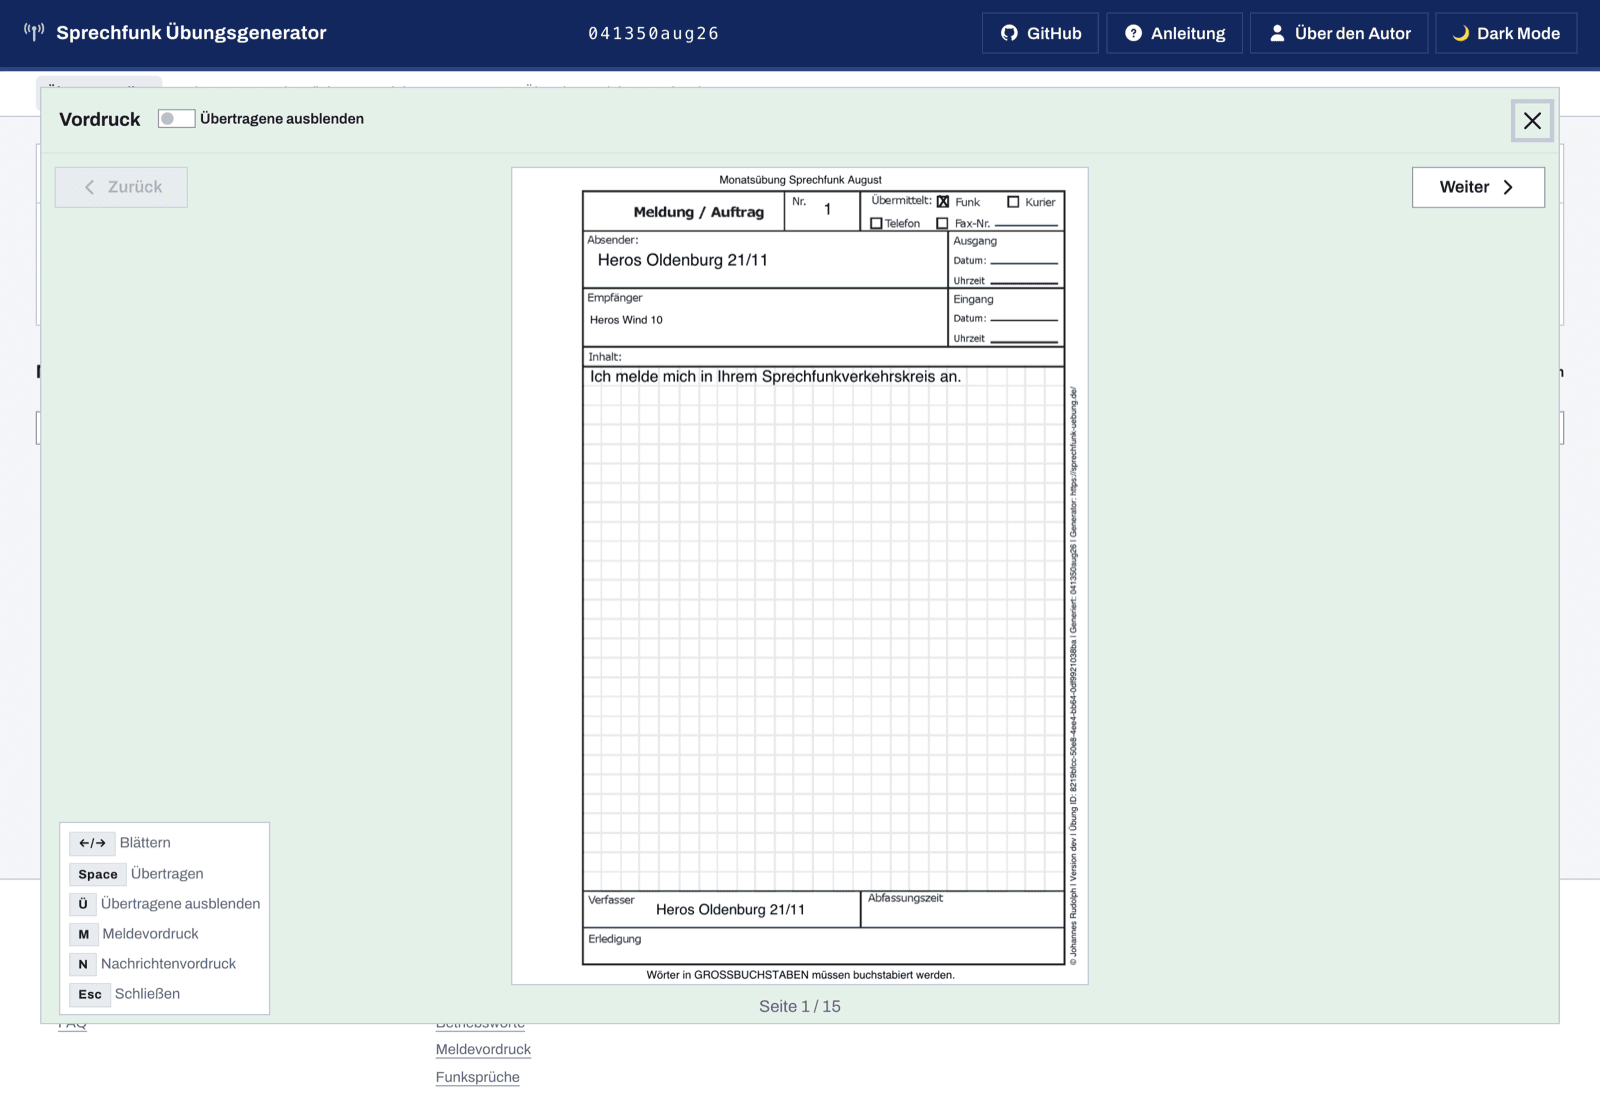
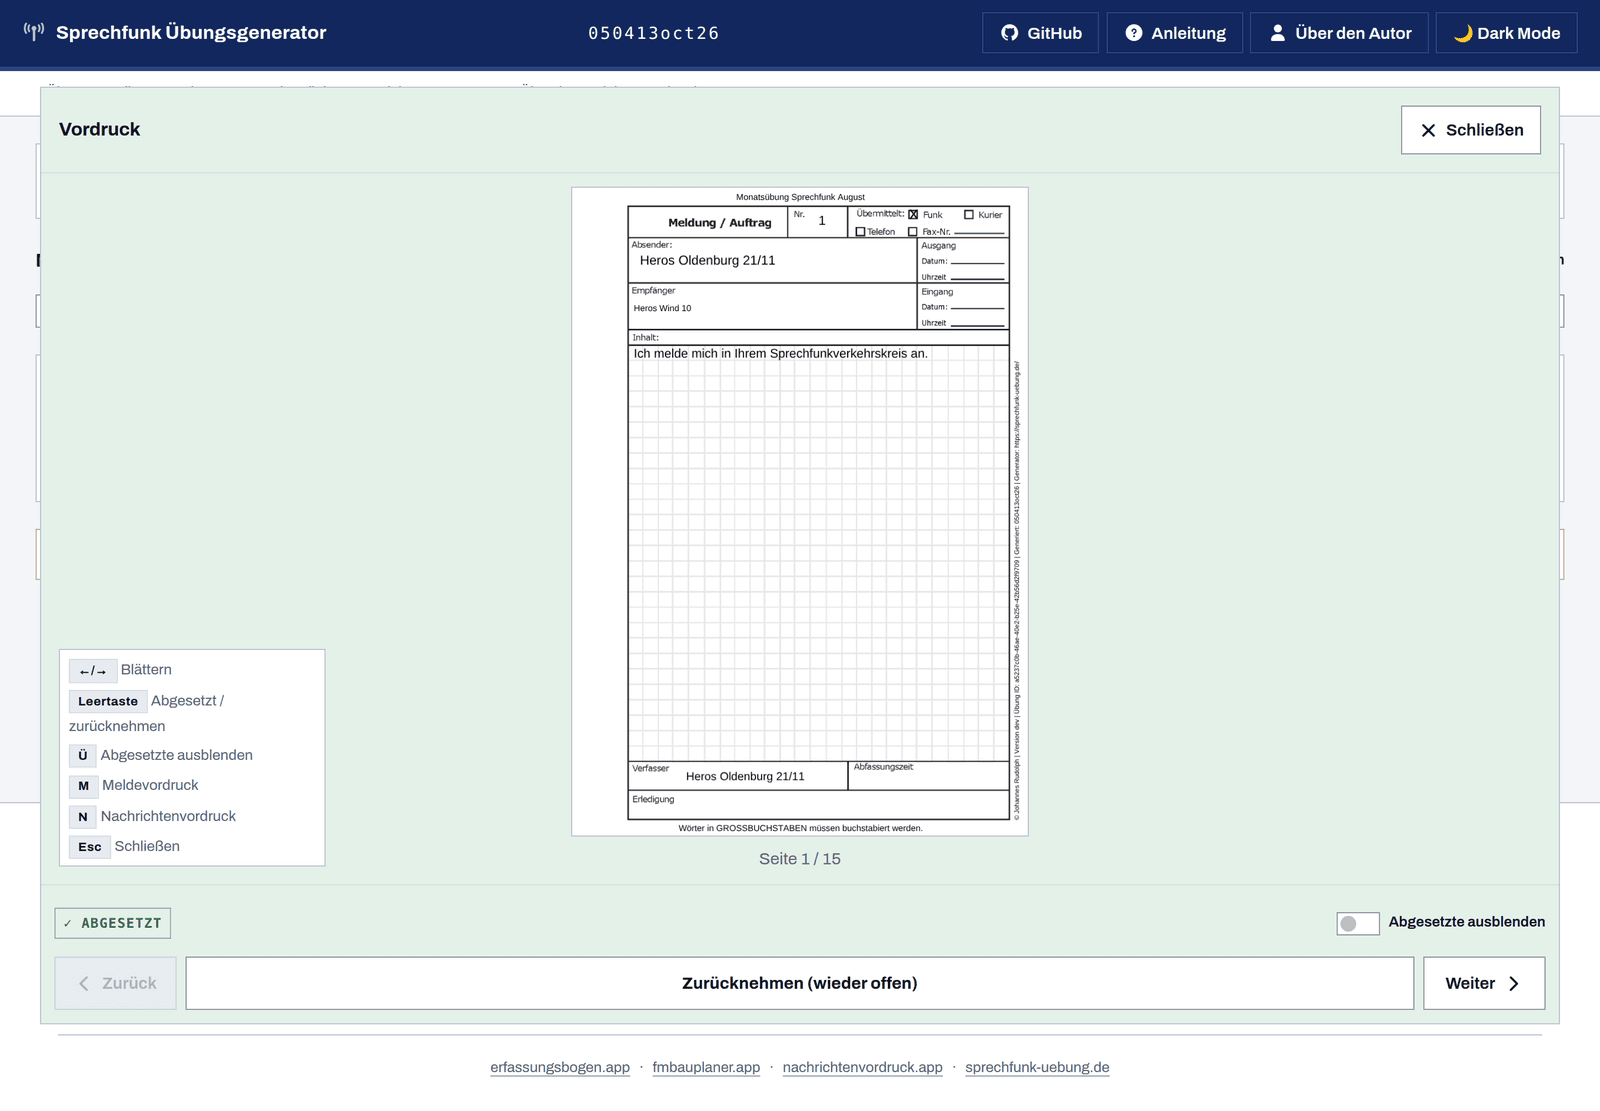
docs(anleitung): Wortwahl „abgesetzt“ und neue Screenshots
Anleitung, FAQ und Inhaltsseiten an die vereinheitlichte Wortwahl der
Teilnehmer- und Leitungsansicht angepasst („abgesetzt“ statt
„übertragen“, Knopf statt Schalter, Pfeiltasten zum Blättern).
Screenshots neu erzeugt. Das Skript nimmt außerhalb von macOS
ImageMagick statt sips, überspringt „Anmeldung erhalten“, wenn der
Teilnehmer seinen Anmeldespruch schon abgehakt hat, wartet den
Rückgängig-Hinweis ab und begrenzt die Teilnehmeraufnahme auf die
ersten Zeilen (200-KB-Grenze).

Claude-Session: https://claude.ai/code/session_01J5R7RwmWcCMk3gkqRpAjCu

diff --git a/src/pages/anleitung.html b/src/pages/anleitung.html
@@ -131,7 +131,7 @@
                     <img src="../assets/anleitung/generator-uebersicht.png"
                          class="figure-img img-fluid rounded border"
                          alt="Generator-Ansicht mit den drei Karten Kopfdaten, Einstellungen und Teilnehmerverwaltung"
-                         width="1600" height="1084" loading="lazy" decoding="async">
+                         width="1600" height="1907" loading="lazy" decoding="async">
                     <figcaption class="figure-caption">Der Generator mit einer ausgefüllten Beispielübung:
                         Kopfdaten, Einstellungen und Teilnehmerverwaltung nebeneinander.</figcaption>
                 </figure>
@@ -148,7 +148,7 @@
                     <img src="../assets/anleitung/generator-kopfdaten.png"
                          class="figure-img img-fluid rounded border" style="max-width: 460px;"
                          alt="Kopfdaten-Karte mit Feldern für Datum, Name der Übung, Rufgruppe und Funkrufname der Übungsleitung"
-                         width="912" height="1052" loading="lazy" decoding="async">
+                         width="1384" height="1138" loading="lazy" decoding="async">
                     <figcaption class="figure-caption">Die Kopfdaten der Übung. Der Spiel-Modus
                         <a href="../x-zeit/">der X-Zeit-Modus</a> verteilt Nachrichten zusätzlich auf feste Zeitfenster.</figcaption>
                 </figure>
@@ -164,7 +164,7 @@
                     <img src="../assets/anleitung/generator-teilnehmer.png"
                          class="figure-img img-fluid rounded border" style="max-width: 460px;"
                          alt="Teilnehmerverwaltung mit Funkrufnamen, individuellen Lösungswörtern und Löschen-Buttons"
-                         width="912" height="928" loading="lazy" decoding="async">
+                         width="1600" height="570" loading="lazy" decoding="async">
                     <figcaption class="figure-caption">Vier Teilnehmer mit Funkrufnamen. Die Spalte
                         „Lösungswort“ erscheint, sobald individuelle Lösungswörter aktiviert sind.</figcaption>
                 </figure>
@@ -212,7 +212,7 @@
                     <img src="../assets/anleitung/generator-einstellungen.png"
                          class="figure-img img-fluid rounded border" style="max-width: 460px;"
                          alt="Einstellungen-Karte mit Nachrichtenverteilung, Vorlagen-Auswahl und Lösungswort-Optionen"
-                         width="912" height="1840" loading="lazy" decoding="async">
+                         width="1384" height="2220" loading="lazy" decoding="async">
                     <figcaption class="figure-caption">Die Einstellungen-Karte bündelt die Schritte 3
                         bis 5: Nachrichtenverteilung, Quelle der Funksprüche und Lösungswörter.</figcaption>
                 </figure>
@@ -231,7 +231,7 @@
                     <img src="../assets/anleitung/generator-links.png"
                          class="figure-img img-fluid rounded border"
                          alt="Ergebnisbereich mit Links für Übung, Übungsleitung und Teilnehmer sowie ZIP-Download"
-                         width="1600" height="848" loading="lazy" decoding="async">
+                         width="1600" height="1154" loading="lazy" decoding="async">
                     <figcaption class="figure-caption">Der Ergebnisbereich: pro Teilnehmer ein Link mit
                         Teilnehmercode, darunter der ZIP-Download aller Druckdaten.</figcaption>
                 </figure>
@@ -245,7 +245,7 @@
                     <img src="../assets/anleitung/generator-statistik.png"
                          class="figure-img img-fluid rounded border"
                          alt="Statistik-Tab mit Nachrichtenverteilung als Diagramm und geschätzter Übungsdauer"
-                         width="1600" height="848" loading="lazy" decoding="async">
+                         width="1600" height="849" loading="lazy" decoding="async">
                     <figcaption class="figure-caption">Nachrichtenverteilung und geschätzte Dauer:
                         Bei 4 Teilnehmern mit je 15 Funksprüchen etwa 3 Stunden.</figcaption>
                 </figure>
@@ -308,7 +308,7 @@
                     „Übungsleitung“). Die Ansicht zeigt oben die Übungsdaten mit
                     <strong>Übungscode</strong> und Übungs-ID, darunter die Teilnehmertabelle
                     und den Nachrichtenplan. Alles synchronisiert sich <strong>live</strong>:
-                    Sobald ein Teilnehmer eine Nachricht als übertragen markiert, erscheint das
+                    Sobald ein Teilnehmer eine Nachricht als abgesetzt markiert, erscheint das
                     hier, ohne dass jemand die Seite neu laden muss.
                 </p>
                 <figure class="figure my-3 w-100">
@@ -317,13 +317,13 @@
                          alt="Übungsleitungs-Ansicht mit Übungsdaten, Übungscode und Teilnehmertabelle mit Fortschritt"
                          width="1600" height="1111" loading="lazy" decoding="async">
                     <figcaption class="figure-caption">Die Übungsüberwachung: Der erste Teilnehmer hat
-                        sich angemeldet und 2 von 15 Nachrichten übertragen.</figcaption>
+                        sich angemeldet und 2 von 15 Nachrichten abgesetzt.</figcaption>
                 </figure>
 
                 <h3 class="h5">Teilnehmer-Tracking</h3>
                 <p>Die Teilnehmertabelle zeigt je Teilnehmer:</p>
                 <ul>
-                    <li><strong>Fortschritt</strong> – Fortschrittsbalken mit „übertragen / gesamt“
+                    <li><strong>Fortschritt</strong> – Fortschrittsbalken mit „abgesetzt / gesamt“
                         und dem Zeitpunkt der letzten Meldung,</li>
                     <li><strong>Angemeldet</strong> – per Klick auf „Anmelden“ dokumentierst du
                         die Anmeldung im Sprechfunkverkehrskreis,</li>
@@ -372,21 +372,22 @@
                 <h3 class="h5">Tabellenansicht</h3>
                 <ul>
                     <li>Zeigt alle eigenen Nachrichten mit Empfänger und Text.</li>
-                    <li>Status „offen/übertragen“ wird per Schalter markiert – der Fortschritt
-                        erscheint live bei der Übungsleitung.</li>
+                    <li>Mit „Als abgesetzt markieren“ hakst du eine Nachricht ab, „Zurücknehmen“ macht
+                        sie wieder offen – der Fortschritt erscheint live bei der Übungsleitung.
+                        Auf dem Handy steht jede Nachricht als Karte mit großem Knopf untereinander.</li>
                     <li>Bestätigt die Übungsleitung eine Nachricht, erscheint das in der Spalte
                         „Leitung“.</li>
                     <li>Suche nach Nachricht, Empfänger oder Nummer möglich.</li>
-                    <li>Übertragene Nachrichten können ausgeblendet werden.</li>
+                    <li>Abgesetzte Nachrichten können ausgeblendet werden.</li>
                     <li>„ZIP herunterladen“ liefert die eigenen Druckunterlagen.</li>
                 </ul>
                 <figure class="figure my-3 w-100">
                     <img src="../assets/anleitung/teilnehmer-uebersicht.png"
                          class="figure-img img-fluid rounded border"
                          alt="Teilnehmeransicht mit Funkspruch-Tabelle und Status je Nachricht"
-                         width="1600" height="1424" loading="lazy" decoding="async">
+                         width="1600" height="911" loading="lazy" decoding="async">
                     <figcaption class="figure-caption">Die Teilnehmeransicht: Die ersten beiden
-                        Nachrichten sind als übertragen markiert, „Sync: live“ zeigt die
+                        Nachrichten sind als abgesetzt markiert, „Sync: live“ zeigt die
                         aktive Verbindung zur Übungsleitung.</figcaption>
                 </figure>
 
@@ -394,7 +395,7 @@
                 <ul>
                     <li>Umschalten auf <strong>Meldevordruck</strong> oder <strong>Nachrichtenvordruck</strong>.</li>
                     <li>Es ist immer nur eine Seite sichtbar; mit links/rechts wird geblättert.</li>
-                    <li>Die Nachricht kann direkt als „übertragen“ markiert werden.</li>
+                    <li>Die Nachricht kann direkt mit dem Knopf „Als abgesetzt markieren“ abgehakt werden, auch per Touch.</li>
                 </ul>
                 <figure class="figure my-3 w-100">
                     <img src="../assets/anleitung/teilnehmer-vordruck.png"
@@ -409,10 +410,10 @@
                 <ul>
                     <li><kbd>Esc</kbd> – schließen</li>
                     <li><kbd>←</kbd> / <kbd>→</kbd> – blättern</li>
-                    <li><kbd>Leertaste</kbd> – aktuelle Nachricht als übertragen markieren</li>
+                    <li><kbd>Leertaste</kbd> – aktuelle Nachricht als abgesetzt markieren</li>
                     <li><kbd>M</kbd> – Meldevordruck</li>
                     <li><kbd>N</kbd> – Nachrichtenvordruck</li>
-                    <li><kbd>Ü</kbd> – übertragene Nachrichten ein-/ausblenden</li>
+                    <li><kbd>Ü</kbd> – abgesetzte Nachrichten ein-/ausblenden</li>
                 </ul>
             </div>
         </div>

diff --git a/src/pages/digitale-funkuebung.html b/src/pages/digitale-funkuebung.html
@@ -183,7 +183,7 @@
                     <section class="card shadow-sm mb-4">
             <div class="card-header"><h2 class="h4 mb-0" id="teilnehmeransicht">Was die Teilnehmeransicht zeigt</h2></div>
             <div class="card-body">
-                <p>Der Link führt auf eine Liste der eigenen Funksprüche, mit laufender Nummer, Empfänger und Text. Jede Zeile lässt sich als übertragen markieren. Wer die Vordruckansicht wählt, sieht stattdessen den Nachrichtenvordruck am Bildschirm und blättert mit der Leertaste.</p>
+                <p>Der Link führt auf eine Liste der eigenen Funksprüche, mit laufender Nummer, Empfänger und Text. Jede Nachricht lässt sich als abgesetzt markieren, am Handy über einen großen Knopf je Karte. Wer die Vordruckansicht wählt, sieht stattdessen den Nachrichtenvordruck am Bildschirm, blättert mit den Pfeiltasten und hakt mit Knopf oder Leertaste ab.</p>
                 <p>Ein Konto ist nicht nötig, weil der Link selbst die Zuordnung enthält. Das ist bewusst so: Ein Anmeldeverfahren würde am Übungsabend fünf Minuten kosten und einige Teilnehmer aussteigen lassen.</p>
                 <p>Aufgenommene Nachrichten werden weiter auf Papier notiert. Der Vordruck bleibt Teil der Übung, weil das Mitschreiben geübt werden soll.</p>
             </div>

diff --git a/src/pages/funktionen.html b/src/pages/funktionen.html
@@ -242,7 +242,7 @@
             <div class="card-header"><h2 class="h4 mb-0" id="grenzen">Was der Generator nicht macht</h2></div>
             <div class="card-body">
                 <p>Die Anwendung erzeugt Übungsunterlagen und begleitet den Verlauf. Sie ersetzt weder Funkgeräte noch die Übungsleitung. Wer die Rufgruppe zuweist, wer einweist und wer eine Nachbesprechung führt, bleibt eine Aufgabe für Menschen.</p>
-                <p>Auch die fachliche Bewertung bleibt außen vor. Ob ein Teilnehmer den Anruf korrekt gesprochen hat, hört nur die Übungsleitung; die Anwendung sieht lediglich, dass eine Nachricht als übertragen markiert wurde.</p>
+                <p>Auch die fachliche Bewertung bleibt außen vor. Ob ein Teilnehmer den Anruf korrekt gesprochen hat, hört nur die Übungsleitung; die Anwendung sieht lediglich, dass eine Nachricht als abgesetzt markiert wurde.</p>
                 <p>Bewusst fehlt außerdem eine Aufzeichnung des Funkverkehrs. Mitschnitte wären ausbildungsfachlich reizvoll und datenschutzrechtlich heikel, deshalb gibt es sie nicht.</p>
             </div>
         </section>

diff --git a/src/uebungsleitung/UebungsleitungTeilnehmerView.ts b/src/uebungsleitung/UebungsleitungTeilnehmerView.ts
@@ -393,7 +393,7 @@ export class UebungsleitungTeilnehmerView {
         const geraet = this.renderGeraetHinweis(fortschritt, jetztMs);
         const letzte = letzteMeldungUm
             ? `<small class="text-body-secondary">zuletzt ${formatNatoDate(letzteMeldungUm)}</small>${herkunft}${geraet}`
-            : `<small class="text-body-secondary">noch nichts übertragen</small>${geraet}`;
+            : `<small class="text-body-secondary">noch nichts abgesetzt</small>${geraet}`;
         // Der Balken startet auf dem zuletzt gezeigten Wert und bekommt den
         // neuen erst im nächsten Frame; so legt er die Strecke sichtbar zurück.
         const start = this.letzterProzent.get(name) ?? percent;

diff --git a/src/pages/faq.html b/src/pages/faq.html
@@ -242,8 +242,8 @@
             <div class="card-body">
                 <h3 class="h5">Warum steht bei meinen Nachrichten überall „offen“?</h3>
                 <p>
-                    Nachrichten müssen aktiv als „übertragen“ markiert werden – per Klick in der
-                    Tabelle oder mit der Leertaste in der Vordruckansicht.
+                    Nachrichten müssen aktiv als abgesetzt markiert werden – mit dem Knopf „Als abgesetzt
+                    markieren“ in der Liste oder in der Vordruckansicht, dort auch mit der Leertaste.
                 </p>
 
                 <h3 class="h5">Die Teilnehmeransicht zeigt eine Fehlermeldung. Was tun?</h3>

diff --git a/tests/uebungsleitung/UebungsleitungView.test.ts b/tests/uebungsleitung/UebungsleitungView.test.ts
@@ -607,7 +607,7 @@ describe("UebungsleitungView – Live-Status", () => {
             });
 
             expect(document.getElementById("uebungsleitungTeilnehmer")?.textContent)
-                .toContain("noch nichts übertragen");
+                .toContain("noch nichts abgesetzt");
         });
 
         it("markiert Nachzügler gegenüber dem Median der Gruppe", () => {
